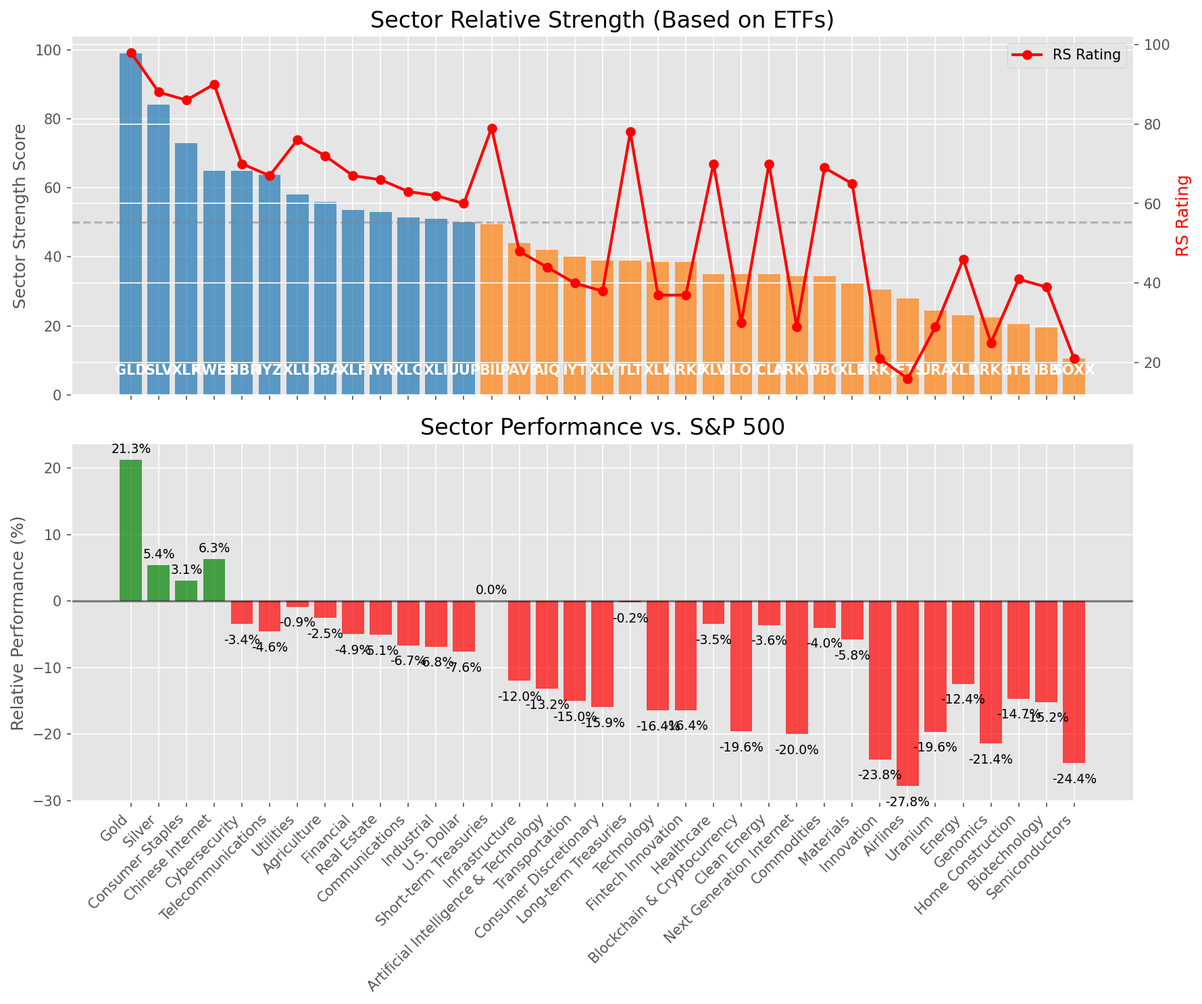
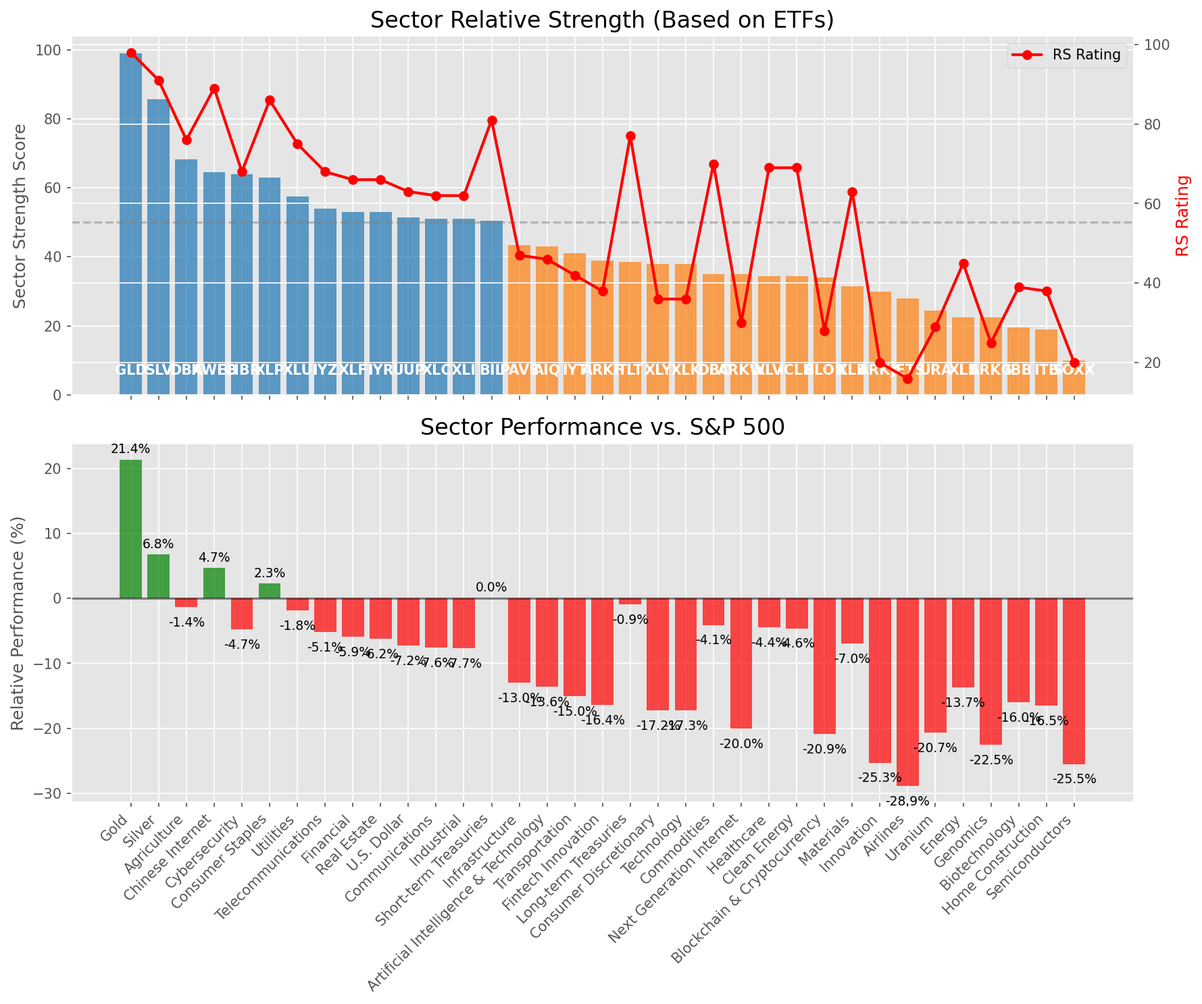
Add market report for 2025-04-11

diff --git a/oneil_relative_strength_report_2025-04-11.md b/oneil_relative_strength_report_2025-04-11.md
@@ -9,11 +9,11 @@
 | Metric | Value |
 |--------|-------|
 | **Market Valuation** | **Significantly Undervalued** |
-| **Current Ratio** | 8.67 |
+| **Current Ratio** | 8.60 |
 | **Historical Mean** | 9.69 |
 | **Standard Deviation** | 0.44 |
 | **Z-Score (StdDev from Mean)** | -2.33 |
-| **Total Market Cap** | $257.68 trillion |
+| **Total Market Cap** | $255.69 trillion |
 | **GDP** | $29.72 trillion |
 
 ## **Market Insights**
@@ -49,41 +49,41 @@ Based on William O'Neil's Relative Strength Methodology
 
 | ETF | Strength | RS Rating | Performance | Above Key MAs | Trend | Sector |
 |-----|----------|-----------|-------------|--------------|-------|--------|
-| [GLD](https://www.tradingview.com/chart/?symbol=GLD) | 99.0 | 98.0 | 21.27% | 10d ✓, 50d ✓, 200d ✓ | ↗ | Gold |
-| [SLV](https://www.tradingview.com/chart/?symbol=SLV) | 84.1 | 88.0 | 5.42% | 10d ✓, 50d ✗, 200d ✓ | ↗ | Silver |
-| [XLP](https://www.tradingview.com/chart/?symbol=XLP) | 72.9 | 86.0 | 3.11% | 10d ✓, 50d ✗, 200d ✗ | ↗ | Consumer Staples |
-| [KWEB](https://www.tradingview.com/chart/?symbol=KWEB) | 65.0 | 90.0 | 6.33% | 10d ✗, 50d ✗, 200d ✗ | ↗ | Chinese Internet |
-| [CIBR](https://www.tradingview.com/chart/?symbol=CIBR) | 64.9 | 70.0 | -3.45% | 10d ✓, 50d ✗, 200d ✗ | ↗ | Cybersecurity |
-| [IYZ](https://www.tradingview.com/chart/?symbol=IYZ) | 63.7 | 67.0 | -4.59% | 10d ✗, 50d ✗, 200d ✓ | ↗ | Telecommunications |
-| [XLU](https://www.tradingview.com/chart/?symbol=XLU) | 58.0 | 76.0 | -0.86% | 10d ✗, 50d ✗, 200d ✗ | ↗ | Utilities |
-| [DBA](https://www.tradingview.com/chart/?symbol=DBA) | 56.0 | 72.0 | -2.53% | 10d ✗, 50d ✗, 200d ✗ | ↗ | Agriculture |
-| [XLF](https://www.tradingview.com/chart/?symbol=XLF) | 53.5 | 67.0 | -4.95% | 10d ✗, 50d ✗, 200d ✗ | ↗ | Financial |
-| [IYR](https://www.tradingview.com/chart/?symbol=IYR) | 53.0 | 66.0 | -5.09% | 10d ✗, 50d ✗, 200d ✗ | ↗ | Real Estate |
-| [XLC](https://www.tradingview.com/chart/?symbol=XLC) | 51.5 | 63.0 | -6.66% | 10d ✗, 50d ✗, 200d ✗ | ↗ | Communications |
-| [XLI](https://www.tradingview.com/chart/?symbol=XLI) | 51.0 | 62.0 | -6.84% | 10d ✗, 50d ✗, 200d ✗ | ↗ | Industrial |
-| [UUP](https://www.tradingview.com/chart/?symbol=UUP) | 50.0 | 60.0 | -7.60% | 10d ✗, 50d ✗, 200d ✗ | ↗ | U.S. Dollar |
-| [BIL](https://www.tradingview.com/chart/?symbol=BIL) | 49.4 | 79.0 | 0.04% | 10d ✓, 50d ✗, 200d ✗ | ↘ | Short-term Treasuries |
-| [PAVE](https://www.tradingview.com/chart/?symbol=PAVE) | 44.0 | 48.0 | -11.97% | 10d ✗, 50d ✗, 200d ✗ | ↗ | Infrastructure |
-| [AIQ](https://www.tradingview.com/chart/?symbol=AIQ) | 42.0 | 44.0 | -13.22% | 10d ✗, 50d ✗, 200d ✗ | ↗ | Artificial Intelligence & Technology |
-| [IYT](https://www.tradingview.com/chart/?symbol=IYT) | 40.0 | 40.0 | -15.05% | 10d ✗, 50d ✗, 200d ✗ | ↗ | Transportation |
-| [XLY](https://www.tradingview.com/chart/?symbol=XLY) | 39.0 | 38.0 | -15.95% | 10d ✗, 50d ✗, 200d ✗ | ↗ | Consumer Discretionary |
-| [TLT](https://www.tradingview.com/chart/?symbol=TLT) | 39.0 | 78.0 | -0.18% | 10d ✗, 50d ✗, 200d ✗ | ↘ | Long-term Treasuries |
-| [XLK](https://www.tradingview.com/chart/?symbol=XLK) | 38.5 | 37.0 | -16.45% | 10d ✗, 50d ✗, 200d ✗ | ↗ | Technology |
-| [ARKF](https://www.tradingview.com/chart/?symbol=ARKF) | 38.5 | 37.0 | -16.38% | 10d ✗, 50d ✗, 200d ✗ | ↗ | Fintech Innovation |
-| [XLV](https://www.tradingview.com/chart/?symbol=XLV) | 35.0 | 70.0 | -3.48% | 10d ✗, 50d ✗, 200d ✗ | ↘ | Healthcare |
-| [BLOK](https://www.tradingview.com/chart/?symbol=BLOK) | 35.0 | 30.0 | -19.59% | 10d ✗, 50d ✗, 200d ✗ | ↗ | Blockchain & Cryptocurrency |
-| [ICLN](https://www.tradingview.com/chart/?symbol=ICLN) | 35.0 | 70.0 | -3.60% | 10d ✗, 50d ✗, 200d ✗ | ↘ | Clean Energy |
-| [ARKW](https://www.tradingview.com/chart/?symbol=ARKW) | 34.5 | 29.0 | -20.02% | 10d ✗, 50d ✗, 200d ✗ | ↗ | Next Generation Internet |
-| [DBC](https://www.tradingview.com/chart/?symbol=DBC) | 34.5 | 69.0 | -4.01% | 10d ✗, 50d ✗, 200d ✗ | ↘ | Commodities |
-| [XLB](https://www.tradingview.com/chart/?symbol=XLB) | 32.5 | 65.0 | -5.80% | 10d ✗, 50d ✗, 200d ✗ | ↘ | Materials |
-| [ARKK](https://www.tradingview.com/chart/?symbol=ARKK) | 30.5 | 21.0 | -23.80% | 10d ✗, 50d ✗, 200d ✗ | ↗ | Innovation |
-| [JETS](https://www.tradingview.com/chart/?symbol=JETS) | 28.0 | 16.0 | -27.80% | 10d ✗, 50d ✗, 200d ✗ | ↗ | Airlines |
-| [URA](https://www.tradingview.com/chart/?symbol=URA) | 24.4 | 29.0 | -19.65% | 10d ✓, 50d ✗, 200d ✗ | ↘ | Uranium |
-| [XLE](https://www.tradingview.com/chart/?symbol=XLE) | 23.0 | 46.0 | -12.44% | 10d ✗, 50d ✗, 200d ✗ | ↘ | Energy |
-| [ARKG](https://www.tradingview.com/chart/?symbol=ARKG) | 22.4 | 25.0 | -21.43% | 10d ✓, 50d ✗, 200d ✗ | ↘ | Genomics |
-| [ITB](https://www.tradingview.com/chart/?symbol=ITB) | 20.5 | 41.0 | -14.68% | 10d ✗, 50d ✗, 200d ✗ | ↘ | Home Construction |
-| [IBB](https://www.tradingview.com/chart/?symbol=IBB) | 19.5 | 39.0 | -15.17% | 10d ✗, 50d ✗, 200d ✗ | ↘ | Biotechnology |
-| [SOXX](https://www.tradingview.com/chart/?symbol=SOXX) | 10.5 | 21.0 | -24.38% | 10d ✗, 50d ✗, 200d ✗ | ↘ | Semiconductors |
+| [GLD](https://www.tradingview.com/chart/?symbol=GLD) | 99.0 | 98.0 | 21.38% | 10d ✓, 50d ✓, 200d ✓ | ↗ | Gold |
+| [SLV](https://www.tradingview.com/chart/?symbol=SLV) | 85.6 | 91.0 | 6.78% | 10d ✓, 50d ✗, 200d ✓ | ↗ | Silver |
+| [DBA](https://www.tradingview.com/chart/?symbol=DBA) | 68.2 | 76.0 | -1.36% | 10d ✗, 50d ✗, 200d ✓ | ↗ | Agriculture |
+| [KWEB](https://www.tradingview.com/chart/?symbol=KWEB) | 64.5 | 89.0 | 4.70% | 10d ✗, 50d ✗, 200d ✗ | ↗ | Chinese Internet |
+| [CIBR](https://www.tradingview.com/chart/?symbol=CIBR) | 63.9 | 68.0 | -4.71% | 10d ✓, 50d ✗, 200d ✗ | ↗ | Cybersecurity |
+| [XLP](https://www.tradingview.com/chart/?symbol=XLP) | 63.0 | 86.0 | 2.31% | 10d ✗, 50d ✗, 200d ✗ | ↗ | Consumer Staples |
+| [XLU](https://www.tradingview.com/chart/?symbol=XLU) | 57.5 | 75.0 | -1.80% | 10d ✗, 50d ✗, 200d ✗ | ↗ | Utilities |
+| [IYZ](https://www.tradingview.com/chart/?symbol=IYZ) | 54.0 | 68.0 | -5.13% | 10d ✗, 50d ✗, 200d ✗ | ↗ | Telecommunications |
+| [XLF](https://www.tradingview.com/chart/?symbol=XLF) | 53.0 | 66.0 | -5.92% | 10d ✗, 50d ✗, 200d ✗ | ↗ | Financial |
+| [IYR](https://www.tradingview.com/chart/?symbol=IYR) | 53.0 | 66.0 | -6.20% | 10d ✗, 50d ✗, 200d ✗ | ↗ | Real Estate |
+| [UUP](https://www.tradingview.com/chart/?symbol=UUP) | 51.5 | 63.0 | -7.21% | 10d ✗, 50d ✗, 200d ✗ | ↗ | U.S. Dollar |
+| [XLC](https://www.tradingview.com/chart/?symbol=XLC) | 51.0 | 62.0 | -7.61% | 10d ✗, 50d ✗, 200d ✗ | ↗ | Communications |
+| [XLI](https://www.tradingview.com/chart/?symbol=XLI) | 51.0 | 62.0 | -7.68% | 10d ✗, 50d ✗, 200d ✗ | ↗ | Industrial |
+| [BIL](https://www.tradingview.com/chart/?symbol=BIL) | 50.4 | 81.0 | 0.04% | 10d ✓, 50d ✗, 200d ✗ | ↘ | Short-term Treasuries |
+| [PAVE](https://www.tradingview.com/chart/?symbol=PAVE) | 43.5 | 47.0 | -12.95% | 10d ✗, 50d ✗, 200d ✗ | ↗ | Infrastructure |
+| [AIQ](https://www.tradingview.com/chart/?symbol=AIQ) | 43.0 | 46.0 | -13.62% | 10d ✗, 50d ✗, 200d ✗ | ↗ | Artificial Intelligence & Technology |
+| [IYT](https://www.tradingview.com/chart/?symbol=IYT) | 41.0 | 42.0 | -15.05% | 10d ✗, 50d ✗, 200d ✗ | ↗ | Transportation |
+| [ARKF](https://www.tradingview.com/chart/?symbol=ARKF) | 39.0 | 38.0 | -16.38% | 10d ✗, 50d ✗, 200d ✗ | ↗ | Fintech Innovation |
+| [TLT](https://www.tradingview.com/chart/?symbol=TLT) | 38.5 | 77.0 | -0.94% | 10d ✗, 50d ✗, 200d ✗ | ↘ | Long-term Treasuries |
+| [XLY](https://www.tradingview.com/chart/?symbol=XLY) | 38.0 | 36.0 | -17.24% | 10d ✗, 50d ✗, 200d ✗ | ↗ | Consumer Discretionary |
+| [XLK](https://www.tradingview.com/chart/?symbol=XLK) | 38.0 | 36.0 | -17.27% | 10d ✗, 50d ✗, 200d ✗ | ↗ | Technology |
+| [DBC](https://www.tradingview.com/chart/?symbol=DBC) | 35.0 | 70.0 | -4.08% | 10d ✗, 50d ✗, 200d ✗ | ↘ | Commodities |
+| [ARKW](https://www.tradingview.com/chart/?symbol=ARKW) | 35.0 | 30.0 | -20.02% | 10d ✗, 50d ✗, 200d ✗ | ↗ | Next Generation Internet |
+| [XLV](https://www.tradingview.com/chart/?symbol=XLV) | 34.5 | 69.0 | -4.42% | 10d ✗, 50d ✗, 200d ✗ | ↘ | Healthcare |
+| [ICLN](https://www.tradingview.com/chart/?symbol=ICLN) | 34.5 | 69.0 | -4.60% | 10d ✗, 50d ✗, 200d ✗ | ↘ | Clean Energy |
+| [BLOK](https://www.tradingview.com/chart/?symbol=BLOK) | 34.0 | 28.0 | -20.87% | 10d ✗, 50d ✗, 200d ✗ | ↗ | Blockchain & Cryptocurrency |
+| [XLB](https://www.tradingview.com/chart/?symbol=XLB) | 31.5 | 63.0 | -6.97% | 10d ✗, 50d ✗, 200d ✗ | ↘ | Materials |
+| [ARKK](https://www.tradingview.com/chart/?symbol=ARKK) | 30.0 | 20.0 | -25.30% | 10d ✗, 50d ✗, 200d ✗ | ↗ | Innovation |
+| [JETS](https://www.tradingview.com/chart/?symbol=JETS) | 28.0 | 16.0 | -28.89% | 10d ✗, 50d ✗, 200d ✗ | ↗ | Airlines |
+| [URA](https://www.tradingview.com/chart/?symbol=URA) | 24.4 | 29.0 | -20.65% | 10d ✓, 50d ✗, 200d ✗ | ↘ | Uranium |
+| [XLE](https://www.tradingview.com/chart/?symbol=XLE) | 22.5 | 45.0 | -13.71% | 10d ✗, 50d ✗, 200d ✗ | ↘ | Energy |
+| [ARKG](https://www.tradingview.com/chart/?symbol=ARKG) | 22.4 | 25.0 | -22.53% | 10d ✓, 50d ✗, 200d ✗ | ↘ | Genomics |
+| [IBB](https://www.tradingview.com/chart/?symbol=IBB) | 19.5 | 39.0 | -16.01% | 10d ✗, 50d ✗, 200d ✗ | ↘ | Biotechnology |
+| [ITB](https://www.tradingview.com/chart/?symbol=ITB) | 19.0 | 38.0 | -16.48% | 10d ✗, 50d ✗, 200d ✗ | ↘ | Home Construction |
+| [SOXX](https://www.tradingview.com/chart/?symbol=SOXX) | 10.0 | 20.0 | -25.51% | 10d ✗, 50d ✗, 200d ✗ | ↘ | Semiconductors |
 
 ### **Sector ETF Performance Interpretation**
 
@@ -98,121 +98,116 @@ This table shows the relative strength metrics for different market sectors base
 
 ### **Current Sector Leadership**
 
-The current market leadership is coming from the following sectors: **Gold, Silver, Consumer Staples**.
+The current market leadership is coming from the following sectors: **Gold, Silver, Agriculture**.
 
-The **Gold** sector (represented by **GLD**) is showing particularly strong relative strength with an RS rating of 98.0 and performance of 21.27% vs. the S&P 500. This sector is trading above its 10-day, 50-day, 200-day moving average(s). Investors should consider focusing on high RS stocks within these leading sectors for potential outperformance.
+The **Gold** sector (represented by **GLD**) is showing particularly strong relative strength with an RS rating of 98.0 and performance of 21.38% vs. the S&P 500. This sector is trading above its 10-day, 50-day, 200-day moving average(s). Investors should consider focusing on high RS stocks within these leading sectors for potential outperformance.
 
 ---
 
 ## **Buy Recommendations**
 
-The following 52 stocks show exceptional relative strength:
+The following 41 stocks show exceptional relative strength:
 
 | RS Rating | Buy Score | Current Price | Chart | Name | Ticker |
 |-----------|-----------|---------------|-------|------|--------|
-| 100 | 100 | $117.51 | [Chart](https://www.tradingview.com/chart/?symbol=AEM) | Agnico Eagle Mines Ltd. | AEM |
-| 100 | 100 | $136.10 | [Chart](https://www.tradingview.com/chart/?symbol=UGL) | ProShares Ultra Gold | UGL |
-| 100 | 100 | $81.97 | [Chart](https://www.tradingview.com/chart/?symbol=WPM) | Wheaton Precious Metals Corp. Common Stock | WPM |
-| 100 | 100 | $29.43 | [Chart](https://www.tradingview.com/chart/?symbol=AGI) | Alamos Gold Inc. Class A Common Shares | AGI |
+| 100 | 100 | $81.64 | [Chart](https://www.tradingview.com/chart/?symbol=WPM) | Wheaton Precious Metals Corp. Common Stock | WPM |
+| 100 | 100 | $136.26 | [Chart](https://www.tradingview.com/chart/?symbol=UGL) | ProShares Ultra Gold | UGL |
+| 100 | 100 | $29.03 | [Chart](https://www.tradingview.com/chart/?symbol=AGI) | Alamos Gold Inc. Class A Common Shares | AGI |
+| 99 | 100 | $60.42 | [Chart](https://www.tradingview.com/chart/?symbol=GDXJ) | VanEck Junior Gold Miners ETF | GDXJ |
+| 99 | 100 | $115.11 | [Chart](https://www.tradingview.com/chart/?symbol=AEM) | Agnico Eagle Mines Ltd. | AEM |
+| 99 | 100 | $177.30 | [Chart](https://www.tradingview.com/chart/?symbol=RGLD) | Royal Gold Inc | RGLD |
 | 99 | 100 | $142.99 | [Chart](https://www.tradingview.com/chart/?symbol=PLMR) | Palomar Holdings, Inc. Common stock | PLMR |
-| 99 | 100 | $61.05 | [Chart](https://www.tradingview.com/chart/?symbol=GDXJ) | VanEck Junior Gold Miners ETF | GDXJ |
-| 99 | 100 | $178.06 | [Chart](https://www.tradingview.com/chart/?symbol=RGLD) | Royal Gold Inc | RGLD |
 | 99 | 100 | $18.48 | [Chart](https://www.tradingview.com/chart/?symbol=SWI) | SolarWinds Corporation Common Stock | SWI |
-| 99 | 100 | $15.46 | [Chart](https://www.tradingview.com/chart/?symbol=EZPW) | Ezcorp Inc | EZPW |
-| 98 | 100 | $61.00 | [Chart](https://www.tradingview.com/chart/?symbol=IAU) | iShares Gold Trust | IAU |
-| 98 | 100 | $154.41 | [Chart](https://www.tradingview.com/chart/?symbol=PM) | Philip Morris International Inc. | PM |
-| 98 | 100 | $24.83 | [Chart](https://www.tradingview.com/chart/?symbol=PHYS) | Sprott Physical Gold Trust | PHYS |
-| 98 | 100 | $31.90 | [Chart](https://www.tradingview.com/chart/?symbol=BAR) | GraniteShares Gold Shares | BAR |
-| 98 | 100 | $32.25 | [Chart](https://www.tradingview.com/chart/?symbol=IAUM) | iShares Gold Trust Micro | IAUM |
-| 98 | 100 | $30.85 | [Chart](https://www.tradingview.com/chart/?symbol=SGOL) | abrdn Physical Gold Shares ETF | SGOL |
-| 98 | 100 | $115.38 | [Chart](https://www.tradingview.com/chart/?symbol=BJ) | BJs Wholesale Club Holdings, Inc. Common Stock | BJ |
-| 98 | 100 | $31.18 | [Chart](https://www.tradingview.com/chart/?symbol=OUNZ) | VanEck Merk Gold ETF | OUNZ |
-| 98 | 100 | $298.15 | [Chart](https://www.tradingview.com/chart/?symbol=GLD) | SPDR Gold Trust, SPDR Gold Shares | GLD |
-| 98 | 100 | $64.05 | [Chart](https://www.tradingview.com/chart/?symbol=GLDM) | SPDR Gold MiniShares | GLDM |
-| 97 | 100 | $22.33 | [Chart](https://www.tradingview.com/chart/?symbol=OR) | Osisko Gold Royalties Ltd | OR |
-| 97 | 100 | $45.48 | [Chart](https://www.tradingview.com/chart/?symbol=EXC) | Exelon Corporation | EXC |
-| 97 | 100 | $123.00 | [Chart](https://www.tradingview.com/chart/?symbol=BECN) | Beacon Roofing Supply, Inc. | BECN |
-| 97 | 100 | $22.29 | [Chart](https://www.tradingview.com/chart/?symbol=SRAD) | Sportradar Group AG Class A Ordinary Shares | SRAD |
-| 96 | 100 | $241.70 | [Chart](https://www.tradingview.com/chart/?symbol=RSG) | Republic Services Inc. | RSG |
-| 96 | 100 | $28.55 | [Chart](https://www.tradingview.com/chart/?symbol=CEF) | Sprott Physical Gold and Silver Trust | CEF |
-| 96 | 100 | $37.50 | [Chart](https://www.tradingview.com/chart/?symbol=MRX) | Marex Group plc Ordinary Shares | MRX |
-| 95 | 100 | $86.65 | [Chart](https://www.tradingview.com/chart/?symbol=CCEP) | Coca-Cola Europacific Partners plc Ordinary Shares | CCEP |
-| 95 | 100 | $52.15 | [Chart](https://www.tradingview.com/chart/?symbol=SKWD) | Skyward Specialty Insurance Group, Inc. Common Stock | SKWD |
-| 95 | 100 | $263.64 | [Chart](https://www.tradingview.com/chart/?symbol=CME) | CME Group Inc. | CME |
-| 95 | 100 | $67.61 | [Chart](https://www.tradingview.com/chart/?symbol=KR) | The Kroger Co. | KR |
-| 95 | 100 | $518.36 | [Chart](https://www.tradingview.com/chart/?symbol=BRK.B) | BERKSHIRE HATHAWAY Class B | BRK.B |
-| 94 | 100 | $41.38 | [Chart](https://www.tradingview.com/chart/?symbol=BTI) | British American Tobacco p.l.c. American Depositary Shares, American Depositary Shares, each representing one Ordinary Share | BTI |
-| 94 | 100 | $102.13 | [Chart](https://www.tradingview.com/chart/?symbol=EHC) | Encompass Health Corporation Common Stock | EHC |
-| 94 | 100 | $272.66 | [Chart](https://www.tradingview.com/chart/?symbol=PGR) | Progressive Corporation | PGR |
+| 99 | 100 | $15.51 | [Chart](https://www.tradingview.com/chart/?symbol=EZPW) | Ezcorp Inc | EZPW |
+| 98 | 100 | $30.89 | [Chart](https://www.tradingview.com/chart/?symbol=SGOL) | abrdn Physical Gold Shares ETF | SGOL |
+| 98 | 100 | $64.11 | [Chart](https://www.tradingview.com/chart/?symbol=GLDM) | SPDR Gold MiniShares | GLDM |
+| 98 | 100 | $31.20 | [Chart](https://www.tradingview.com/chart/?symbol=OUNZ) | VanEck Merk Gold ETF | OUNZ |
+| 98 | 100 | $32.28 | [Chart](https://www.tradingview.com/chart/?symbol=IAUM) | iShares Gold Trust Micro | IAUM |
+| 98 | 100 | $31.93 | [Chart](https://www.tradingview.com/chart/?symbol=BAR) | GraniteShares Gold Shares | BAR |
+| 98 | 100 | $61.06 | [Chart](https://www.tradingview.com/chart/?symbol=IAU) | iShares Gold Trust | IAU |
+| 98 | 100 | $24.84 | [Chart](https://www.tradingview.com/chart/?symbol=PHYS) | Sprott Physical Gold Trust | PHYS |
+| 98 | 100 | $115.61 | [Chart](https://www.tradingview.com/chart/?symbol=BJ) | BJs Wholesale Club Holdings, Inc. Common Stock | BJ |
+| 98 | 100 | $298.42 | [Chart](https://www.tradingview.com/chart/?symbol=GLD) | SPDR Gold Trust, SPDR Gold Shares | GLD |
+| 97 | 100 | $22.11 | [Chart](https://www.tradingview.com/chart/?symbol=OR) | Osisko Gold Royalties Ltd | OR |
+| 96 | 100 | $28.66 | [Chart](https://www.tradingview.com/chart/?symbol=CEF) | Sprott Physical Gold and Silver Trust | CEF |
+| 96 | 100 | $21.68 | [Chart](https://www.tradingview.com/chart/?symbol=SRAD) | Sportradar Group AG Class A Ordinary Shares | SRAD |
+| 95 | 100 | $86.06 | [Chart](https://www.tradingview.com/chart/?symbol=CCEP) | Coca-Cola Europacific Partners plc Ordinary Shares | CCEP |
+| 95 | 100 | $37.22 | [Chart](https://www.tradingview.com/chart/?symbol=MRX) | Marex Group plc Ordinary Shares | MRX |
+| 95 | 100 | $262.04 | [Chart](https://www.tradingview.com/chart/?symbol=CME) | CME Group Inc. | CME |
+| 94 | 100 | $41.14 | [Chart](https://www.tradingview.com/chart/?symbol=BTI) | British American Tobacco p.l.c. American Depositary Shares, American Depositary Shares, each representing one Ordinary Share | BTI |
 | 94 | 100 | $438.01 | [Chart](https://www.tradingview.com/chart/?symbol=CASY) | Casey's General Stores Inc | CASY |
 | 93 | 100 | $102.78 | [Chart](https://www.tradingview.com/chart/?symbol=ATGE) | Adtalem Global Education Inc. Common Shares | ATGE |
-| 93 | 100 | $31.90 | [Chart](https://www.tradingview.com/chart/?symbol=KTOS) | Kratos Defense & Security Solutions, Inc. | KTOS |
-| 93 | 100 | $193.42 | [Chart](https://www.tradingview.com/chart/?symbol=WCN) | Waste Connections, Inc. | WCN |
-| 93 | 100 | $155.56 | [Chart](https://www.tradingview.com/chart/?symbol=SFM) | Sprouts Farmers Market, Inc. | SFM |
-| 91 | 100 | $78.93 | [Chart](https://www.tradingview.com/chart/?symbol=FAST) | Fastenal Co | FAST |
-| 91 | 100 | $48.20 | [Chart](https://www.tradingview.com/chart/?symbol=GFL) | GFL Environmental Inc. Subordinate Voting Shares | GFL |
-| 91 | 100 | $307.69 | [Chart](https://www.tradingview.com/chart/?symbol=MCD) | McDonald's Corporation | MCD |
-| 91 | 100 | $114.00 | [Chart](https://www.tradingview.com/chart/?symbol=CWST) | Casella Waste Systems Inc | CWST |
-| 89 | 100 | $33.96 | [Chart](https://www.tradingview.com/chart/?symbol=DRS) | Leonardo DRS, Inc. Common Stock | DRS |
-| 88 | 100 | $44.75 | [Chart](https://www.tradingview.com/chart/?symbol=MRCY) | Mercury Systems Inc. | MRCY |
-| 86 | 99 | $17.90 | [Chart](https://www.tradingview.com/chart/?symbol=GRND) | Grindr Inc. | GRND |
-| 88 | 98 | $127.51 | [Chart](https://www.tradingview.com/chart/?symbol=TJX) | TJX Companies, Inc. (The) | TJX |
-| 84 | 96 | $22.48 | [Chart](https://www.tradingview.com/chart/?symbol=ATSG) | Air Transport Services Group, Inc. | ATSG |
-| 83 | 96 | $111.65 | [Chart](https://www.tradingview.com/chart/?symbol=BOXX) | Alpha Architect 1-3 Month Box ETF | BOXX |
-| 84 | 95 | $74.01 | [Chart](https://www.tradingview.com/chart/?symbol=BRBR) | BellRing Brands, Inc. | BRBR |
-| 83 | 94 | $35.91 | [Chart](https://www.tradingview.com/chart/?symbol=FYBR) | Frontier Communications Parent, Inc. Common Stock | FYBR |
-| 83 | 93 | $22.48 | [Chart](https://www.tradingview.com/chart/?symbol=PYCR) | Paycor HCM, Inc. Common Stock | PYCR |
+| 93 | 100 | $79.78 | [Chart](https://www.tradingview.com/chart/?symbol=FAST) | Fastenal Co | FAST |
+| 93 | 100 | $31.78 | [Chart](https://www.tradingview.com/chart/?symbol=KTOS) | Kratos Defense & Security Solutions, Inc. | KTOS |
+| 93 | 100 | $153.59 | [Chart](https://www.tradingview.com/chart/?symbol=SFM) | Sprouts Farmers Market, Inc. | SFM |
+| 92 | 100 | $101.10 | [Chart](https://www.tradingview.com/chart/?symbol=EHC) | Encompass Health Corporation Common Stock | EHC |
+| 89 | 100 | $44.75 | [Chart](https://www.tradingview.com/chart/?symbol=MRCY) | Mercury Systems Inc. | MRCY |
+| 89 | 100 | $47.04 | [Chart](https://www.tradingview.com/chart/?symbol=GFL) | GFL Environmental Inc. Subordinate Voting Shares | GFL |
+| 87 | 100 | $17.89 | [Chart](https://www.tradingview.com/chart/?symbol=GRND) | Grindr Inc. | GRND |
+| 87 | 97 | $126.29 | [Chart](https://www.tradingview.com/chart/?symbol=TJX) | TJX Companies, Inc. (The) | TJX |
+| 85 | 97 | $33.91 | [Chart](https://www.tradingview.com/chart/?symbol=DRS) | Leonardo DRS, Inc. Common Stock | DRS |
+| 85 | 97 | $22.48 | [Chart](https://www.tradingview.com/chart/?symbol=ATSG) | Air Transport Services Group, Inc. | ATSG |
+| 84 | 97 | $111.65 | [Chart](https://www.tradingview.com/chart/?symbol=BOXX) | Alpha Architect 1-3 Month Box ETF | BOXX |
+| 85 | 96 | $35.90 | [Chart](https://www.tradingview.com/chart/?symbol=FYBR) | Frontier Communications Parent, Inc. Common Stock | FYBR |
+| 85 | 96 | $73.85 | [Chart](https://www.tradingview.com/chart/?symbol=BRBR) | BellRing Brands, Inc. | BRBR |
+| 84 | 94 | $22.48 | [Chart](https://www.tradingview.com/chart/?symbol=PYCR) | Paycor HCM, Inc. Common Stock | PYCR |
 
 ---
 
 
 ## **Sell Recommendations**
 
-The following 41 stocks show deteriorating relative strength:
+The following 47 stocks show deteriorating relative strength:
 
 | RS Rating | Sell Score | Current Price | Chart | Name | Ticker |
 |-----------|------------|---------------|-------|------|--------|
-| 1 | 100 | $66.19 | [Chart](https://www.tradingview.com/chart/?symbol=PI) | Impinj, Inc. Common Stock | PI |
-| 4 | 100 | $19.00 | [Chart](https://www.tradingview.com/chart/?symbol=DJT) | Trump Media & Technology Group Corp. Common Stock | DJT |
-| 6 | 100 | $11.56 | [Chart](https://www.tradingview.com/chart/?symbol=GCT) | GigaCloud Technology Inc Class A Ordinary Shares | GCT |
-| 7 | 100 | $10.10 | [Chart](https://www.tradingview.com/chart/?symbol=CGEM) | Cullinan Therapeutics, Inc. Common Stock | CGEM |
-| 12 | 100 | $43.70 | [Chart](https://www.tradingview.com/chart/?symbol=EDU) | New Oriental Education and Technology Group, Inc. American Depositary Shares (each representing ten (10) Common Shares) | EDU |
+| 1 | 100 | $64.01 | [Chart](https://www.tradingview.com/chart/?symbol=PI) | Impinj, Inc. Common Stock | PI |
+| 4 | 100 | $18.75 | [Chart](https://www.tradingview.com/chart/?symbol=DJT) | Trump Media & Technology Group Corp. Common Stock | DJT |
+| 5 | 100 | $11.28 | [Chart](https://www.tradingview.com/chart/?symbol=GCT) | GigaCloud Technology Inc Class A Ordinary Shares | GCT |
+| 5 | 100 | $33.53 | [Chart](https://www.tradingview.com/chart/?symbol=HELE) | Helen Of Troy Ltd | HELE |
+| 8 | 100 | $10.10 | [Chart](https://www.tradingview.com/chart/?symbol=CGEM) | Cullinan Therapeutics, Inc. Common Stock | CGEM |
+| 11 | 100 | $42.05 | [Chart](https://www.tradingview.com/chart/?symbol=EDU) | New Oriental Education and Technology Group, Inc. American Depositary Shares (each representing ten (10) Common Shares) | EDU |
 | 13 | 100 | $27.24 | [Chart](https://www.tradingview.com/chart/?symbol=SRDX) | Surmodics, Inc. Common Stock | SRDX |
-| 13 | 99 | $19.31 | [Chart](https://www.tradingview.com/chart/?symbol=ST) | Sensata Technologies Holding plc | ST |
-| 15 | 97 | $49.65 | [Chart](https://www.tradingview.com/chart/?symbol=ENPH) | Enphase Energy, Inc. | ENPH |
-| 8 | 94 | $12.51 | [Chart](https://www.tradingview.com/chart/?symbol=DV) | DoubleVerify Holdings, Inc. | DV |
-| 15 | 94 | $11.78 | [Chart](https://www.tradingview.com/chart/?symbol=AEYE) | AudioEye, Inc. Common Stock | AEYE |
-| 11 | 92 | $12.28 | [Chart](https://www.tradingview.com/chart/?symbol=MARA) | MARA Holdings, Inc. Common Stock | MARA |
-| 15 | 92 | $48.20 | [Chart](https://www.tradingview.com/chart/?symbol=RHI) | Robert Half Inc. | RHI |
-| 14 | 91 | $19.42 | [Chart](https://www.tradingview.com/chart/?symbol=HZO) | MarineMax, Inc. | HZO |
-| 24 | 91 | $13.22 | [Chart](https://www.tradingview.com/chart/?symbol=FXN) | First Trust Energy AlphaDEX Fund | FXN |
-| 26 | 91 | $10.03 | [Chart](https://www.tradingview.com/chart/?symbol=MTAL) | MAC Copper Limited | MTAL |
-| 12 | 89 | $10.01 | [Chart](https://www.tradingview.com/chart/?symbol=VYX) | NCR Voyix Corporation | VYX |
-| 17 | 89 | $10.24 | [Chart](https://www.tradingview.com/chart/?symbol=EXPI) | eXp World Holdings, Inc. Common Stock | EXPI |
-| 21 | 89 | $52.29 | [Chart](https://www.tradingview.com/chart/?symbol=CNMD) | CONMED Corporation | CNMD |
-| 29 | 89 | $13.14 | [Chart](https://www.tradingview.com/chart/?symbol=MED) | Medifast, Inc. | MED |
-| 22 | 87 | $22.16 | [Chart](https://www.tradingview.com/chart/?symbol=HOG) | Harley-Davidson, Inc. | HOG |
-| 15 | 86 | $10.31 | [Chart](https://www.tradingview.com/chart/?symbol=VREX) | Varex Imaging Corporation Common Stock | VREX |
-| 20 | 84 | $10.26 | [Chart](https://www.tradingview.com/chart/?symbol=CMP) | Compass Minerals International, Inc. | CMP |
-| 23 | 84 | $10.49 | [Chart](https://www.tradingview.com/chart/?symbol=PEB) | Pebblebrook Hotel Trust | PEB |
-| 17 | 83 | $111.89 | [Chart](https://www.tradingview.com/chart/?symbol=MYRG) | MYR Group, Inc. | MYRG |
-| 22 | 83 | $11.34 | [Chart](https://www.tradingview.com/chart/?symbol=HPK) | HighPeak Energy, Inc. Common Stock | HPK |
-| 21 | 82 | $10.15 | [Chart](https://www.tradingview.com/chart/?symbol=HLIT) | Harmonic Inc | HLIT |
-| 25 | 82 | $11.12 | [Chart](https://www.tradingview.com/chart/?symbol=RIVN) | Rivian Automotive, Inc. Class A Common Stock | RIVN |
-| 26 | 81 | $10.04 | [Chart](https://www.tradingview.com/chart/?symbol=HTLD) | Heartland Express Inc | HTLD |
-| 31 | 81 | $10.11 | [Chart](https://www.tradingview.com/chart/?symbol=CELC) | Celcuity Inc. Common Stock | CELC |
-| 22 | 80 | $351.45 | [Chart](https://www.tradingview.com/chart/?symbol=SAIA) | Saia, Inc. | SAIA |
-| 30 | 79 | $76.33 | [Chart](https://www.tradingview.com/chart/?symbol=LEA) | Lear Corporation | LEA |
-| 26 | 77 | $10.26 | [Chart](https://www.tradingview.com/chart/?symbol=PACS) | PACS Group, Inc. | PACS |
-| 33 | 77 | $10.71 | [Chart](https://www.tradingview.com/chart/?symbol=DBRG) | DigitalBridge Group, Inc. | DBRG |
-| 26 | 76 | $17.42 | [Chart](https://www.tradingview.com/chart/?symbol=IART) | Integra LifeSciences Holdings | IART |
-| 30 | 76 | $22.11 | [Chart](https://www.tradingview.com/chart/?symbol=AMRK) | A-Mark Precious Metals, Inc. | AMRK |
-| 39 | 72 | $10.30 | [Chart](https://www.tradingview.com/chart/?symbol=CSTM) | Constellium SE Class A Ordinary shares | CSTM |
-| 36 | 69 | $10.34 | [Chart](https://www.tradingview.com/chart/?symbol=CMRE) | Costamare Inc. | CMRE |
-| 36 | 69 | $16.74 | [Chart](https://www.tradingview.com/chart/?symbol=CTRI) | Centuri Holdings, Inc. | CTRI |
-| 36 | 69 | $149.62 | [Chart](https://www.tradingview.com/chart/?symbol=ODFL) | Old Dominion Freight Line | ODFL |
-| 38 | 66 | $10.55 | [Chart](https://www.tradingview.com/chart/?symbol=LBTYA) | Liberty Global Ltd. Class A Common Shares | LBTYA |
-| 38 | 63 | $34.28 | [Chart](https://www.tradingview.com/chart/?symbol=LIT) | Global X Lithium & Battery Tech ETF | LIT |
+| 13 | 99 | $18.84 | [Chart](https://www.tradingview.com/chart/?symbol=ST) | Sensata Technologies Holding plc | ST |
+| 14 | 97 | $48.38 | [Chart](https://www.tradingview.com/chart/?symbol=ENPH) | Enphase Energy, Inc. | ENPH |
+| 8 | 94 | $12.30 | [Chart](https://www.tradingview.com/chart/?symbol=DV) | DoubleVerify Holdings, Inc. | DV |
+| 16 | 93 | $11.78 | [Chart](https://www.tradingview.com/chart/?symbol=AEYE) | AudioEye, Inc. Common Stock | AEYE |
+| 15 | 92 | $47.35 | [Chart](https://www.tradingview.com/chart/?symbol=RHI) | Robert Half Inc. | RHI |
+| 11 | 91 | $12.09 | [Chart](https://www.tradingview.com/chart/?symbol=MARA) | MARA Holdings, Inc. Common Stock | MARA |
+| 17 | 91 | $324.64 | [Chart](https://www.tradingview.com/chart/?symbol=SAIA) | Saia, Inc. | SAIA |
+| 15 | 90 | $19.42 | [Chart](https://www.tradingview.com/chart/?symbol=HZO) | MarineMax, Inc. | HZO |
+| 26 | 89 | $13.22 | [Chart](https://www.tradingview.com/chart/?symbol=FXN) | First Trust Energy AlphaDEX Fund | FXN |
+| 28 | 89 | $10.03 | [Chart](https://www.tradingview.com/chart/?symbol=MTAL) | MAC Copper Limited | MTAL |
+| 13 | 88 | $10.01 | [Chart](https://www.tradingview.com/chart/?symbol=VYX) | NCR Voyix Corporation | VYX |
+| 18 | 88 | $10.24 | [Chart](https://www.tradingview.com/chart/?symbol=EXPI) | eXp World Holdings, Inc. Common Stock | EXPI |
+| 30 | 88 | $13.14 | [Chart](https://www.tradingview.com/chart/?symbol=MED) | Medifast, Inc. | MED |
+| 18 | 87 | $16.26 | [Chart](https://www.tradingview.com/chart/?symbol=IART) | Integra LifeSciences Holdings | IART |
+| 23 | 87 | $52.29 | [Chart](https://www.tradingview.com/chart/?symbol=CNMD) | CONMED Corporation | CNMD |
+| 22 | 86 | $26.65 | [Chart](https://www.tradingview.com/chart/?symbol=TAN) | Invesco Solar ETF | TAN |
+| 17 | 84 | $10.31 | [Chart](https://www.tradingview.com/chart/?symbol=VREX) | Varex Imaging Corporation Common Stock | VREX |
+| 24 | 84 | $22.18 | [Chart](https://www.tradingview.com/chart/?symbol=HOG) | Harley-Davidson, Inc. | HOG |
+| 18 | 82 | $111.89 | [Chart](https://www.tradingview.com/chart/?symbol=MYRG) | MYR Group, Inc. | MYRG |
+| 22 | 82 | $10.26 | [Chart](https://www.tradingview.com/chart/?symbol=CMP) | Compass Minerals International, Inc. | CMP |
+| 25 | 82 | $10.49 | [Chart](https://www.tradingview.com/chart/?symbol=PEB) | Pebblebrook Hotel Trust | PEB |
+| 22 | 81 | $10.15 | [Chart](https://www.tradingview.com/chart/?symbol=HLIT) | Harmonic Inc | HLIT |
+| 24 | 81 | $11.34 | [Chart](https://www.tradingview.com/chart/?symbol=HPK) | HighPeak Energy, Inc. Common Stock | HPK |
+| 32 | 81 | $74.93 | [Chart](https://www.tradingview.com/chart/?symbol=LEA) | Lear Corporation | LEA |
+| 26 | 80 | $50.66 | [Chart](https://www.tradingview.com/chart/?symbol=HXL) | Hexcel Corporation | HXL |
+| 27 | 80 | $11.12 | [Chart](https://www.tradingview.com/chart/?symbol=RIVN) | Rivian Automotive, Inc. Class A Common Stock | RIVN |
+| 27 | 80 | $10.04 | [Chart](https://www.tradingview.com/chart/?symbol=HTLD) | Heartland Express Inc | HTLD |
+| 32 | 80 | $10.11 | [Chart](https://www.tradingview.com/chart/?symbol=CELC) | Celcuity Inc. Common Stock | CELC |
+| 33 | 76 | $55.35 | [Chart](https://www.tradingview.com/chart/?symbol=BMRN) | BioMarin Pharmaceuticals Inc | BMRN |
+| 28 | 75 | $10.26 | [Chart](https://www.tradingview.com/chart/?symbol=PACS) | PACS Group, Inc. | PACS |
+| 35 | 75 | $10.71 | [Chart](https://www.tradingview.com/chart/?symbol=DBRG) | DigitalBridge Group, Inc. | DBRG |
+| 38 | 75 | $63.57 | [Chart](https://www.tradingview.com/chart/?symbol=TXT) | Textron, Inc. | TXT |
+| 31 | 74 | $134.72 | [Chart](https://www.tradingview.com/chart/?symbol=LSTR) | Landstar System Inc | LSTR |
+| 30 | 73 | $28.18 | [Chart](https://www.tradingview.com/chart/?symbol=TPH) | Tri Pointe Homes, Inc. | TPH |
+| 35 | 70 | $147.44 | [Chart](https://www.tradingview.com/chart/?symbol=ODFL) | Old Dominion Freight Line | ODFL |
+| 38 | 69 | $28.11 | [Chart](https://www.tradingview.com/chart/?symbol=DAR) | DARLING INGREDIENTS INC. | DAR |
+| 33 | 67 | $45.15 | [Chart](https://www.tradingview.com/chart/?symbol=ATI) | ATI Inc. | ATI |
+| 38 | 67 | $10.34 | [Chart](https://www.tradingview.com/chart/?symbol=CMRE) | Costamare Inc. | CMRE |
+| 38 | 67 | $16.74 | [Chart](https://www.tradingview.com/chart/?symbol=CTRI) | Centuri Holdings, Inc. | CTRI |
+| 39 | 64 | $87.80 | [Chart](https://www.tradingview.com/chart/?symbol=XHB) | SPDR S&P Homebuilders ETF | XHB |
 
 ## **Methodology**
 
